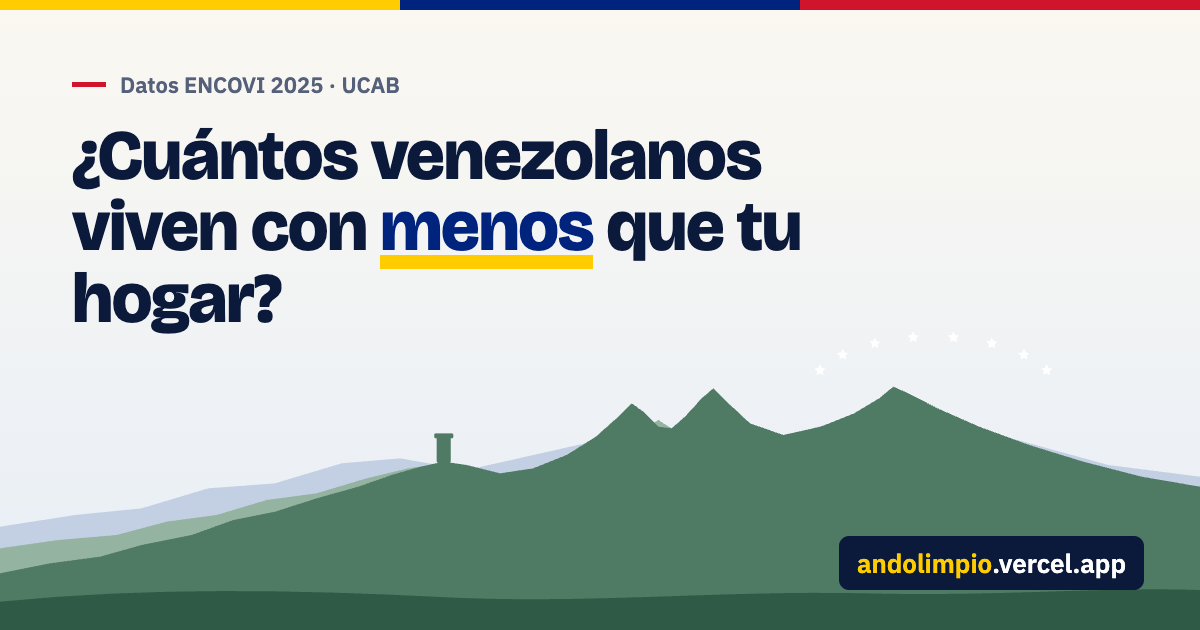
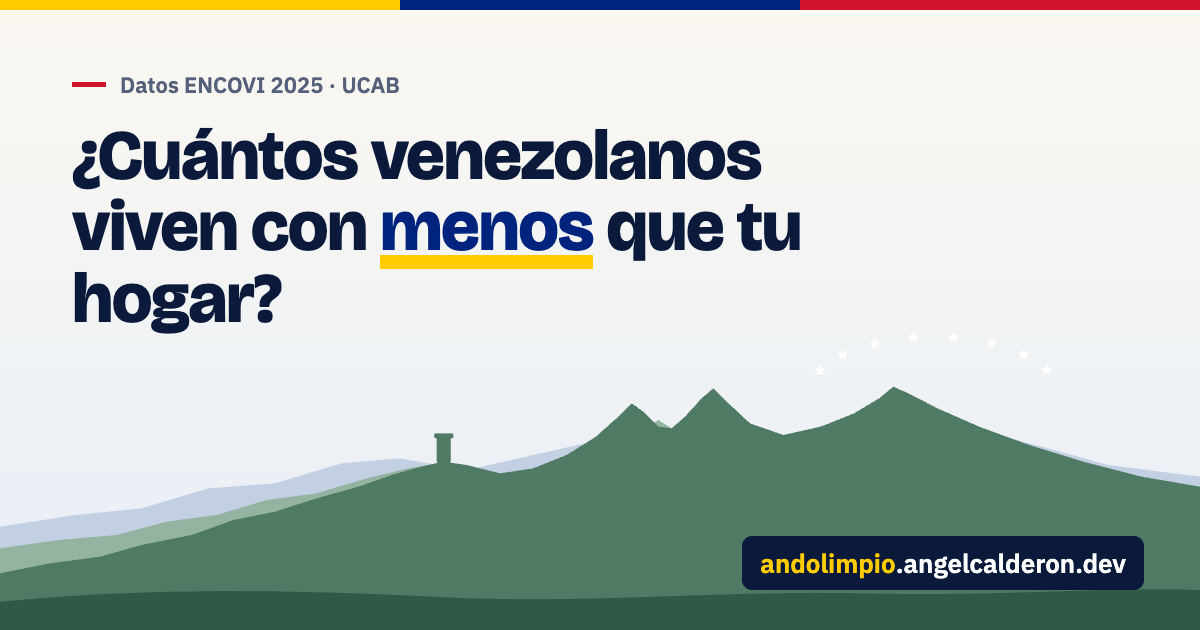
chore: usar el dominio andolimpio.angelcalderon.dev

Changed region(s): [[0.6167, 0.8444, 0.9558, 0.9349]]

diff --git a/README.md b/README.md
@@ -2,7 +2,7 @@
 
 ¿Cuántos venezolanos viven con menos que tu hogar? Escribes cuánto entra al mes en tu casa y cuántas personas viven en ella, y la página te ubica en la distribución del ingreso del país.
 
-**En vivo:** https://andolimpio.vercel.app
+**En vivo:** https://andolimpio.angelcalderon.dev
 
 ## Datos
 
